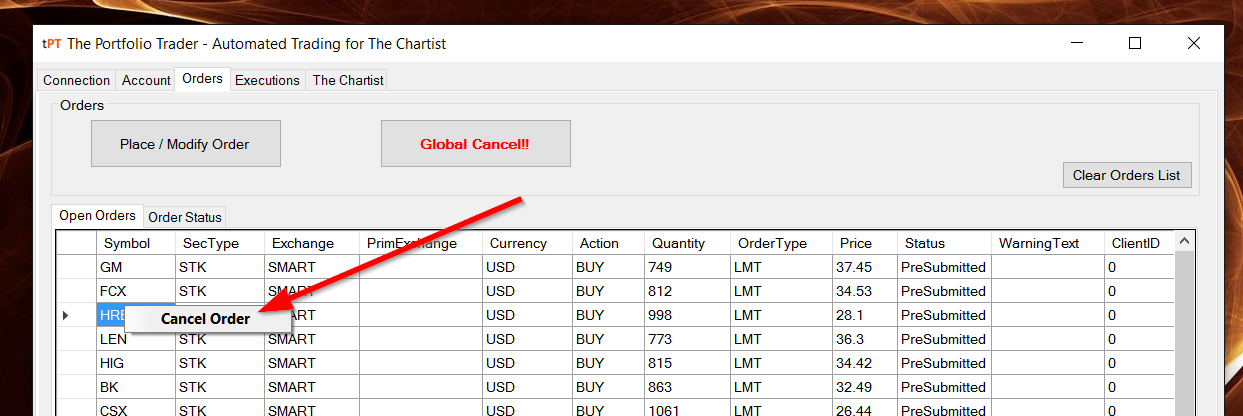
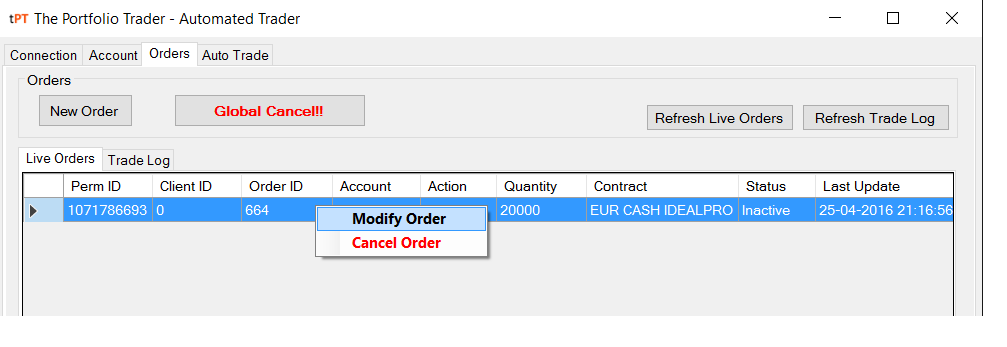
* updates

diff --git a/README.md b/README.md
@@ -317,9 +317,10 @@ This provides a user-interface to alter settings for trading using [**The Charti
 <br>
 
 
-### Cancel orders
-* Go to **Orders** :arrow_right: **Open Orders** tab
-* Right click on the order that you wish to cancel and select **Cancel Order**
+### Modify / Cancel orders
+* Go to **Order** :arrow_right: **Live Orders** tab
+* Right click on the order that you wish to modify or cancel and select either **Modify Order** or **Cancel Order**
+* **Order** dialog will pop-up with all details already populated for you to cross-check and **Send**
 
 ![placeorder_cancel](https://github.com/virusme/Automated-Trader-for-The-Chartist/blob/master/screenshots/_placed_order_cancel.png)
 
@@ -329,16 +330,8 @@ This provides a user-interface to alter settings for trading using [**The Charti
 <br>
 <br>
 
-
-### Check executions
-* Go to **Executions** tab
-* Click **Request Executions**
-* In case, you want to retreive the execution report of a particular order, use the form provided to fill in the details before clicking **Request Executions**
-
-![reqexe](https://github.com/virusme/Automated-Trader-for-The-Chartist/blob/master/screenshots/2_reqexecutions.png)
-
 >**Note**:
->* Interactive Brokers provide execution report for the day (24 hours) and the **Report** table is always in-sync with IB data. Therefore, in most cases you will rarely have to **Request Executions** as they are delivered to this software as and when IB reports it.
+>* Interactive Brokers provide execution report for the day (24 hours) and the **Live Orders** and **Trade Log** table is always in-sync with IB data i.e. they are delivered to this software as and when IB reports it.
 
 
 :arrow_double_up: [Back to Top](#table-of-contents)
